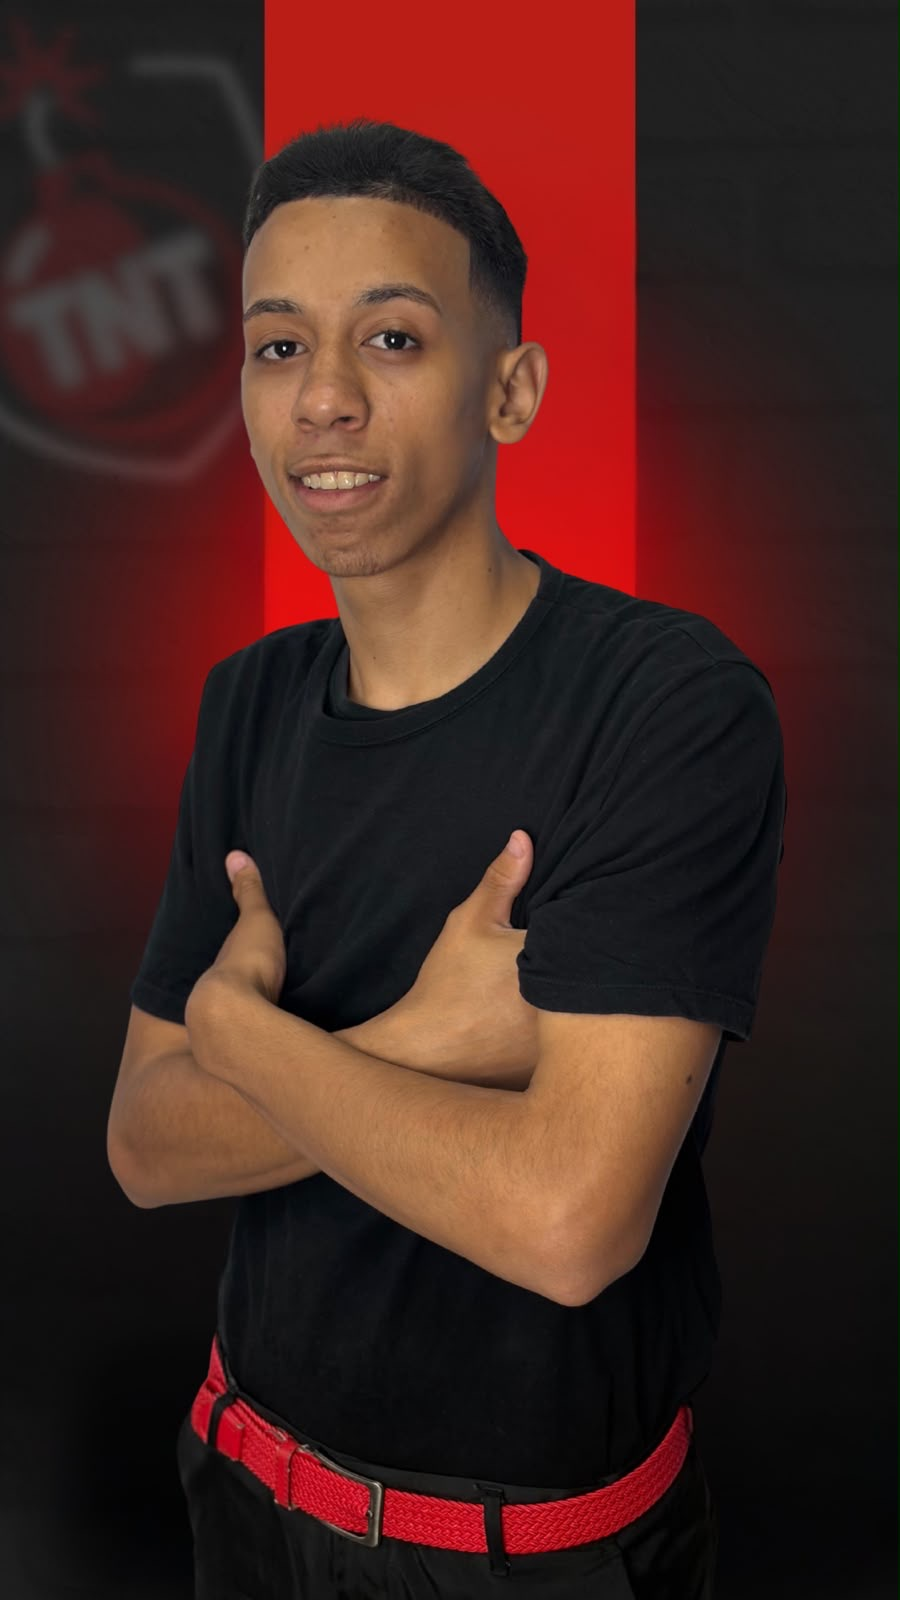
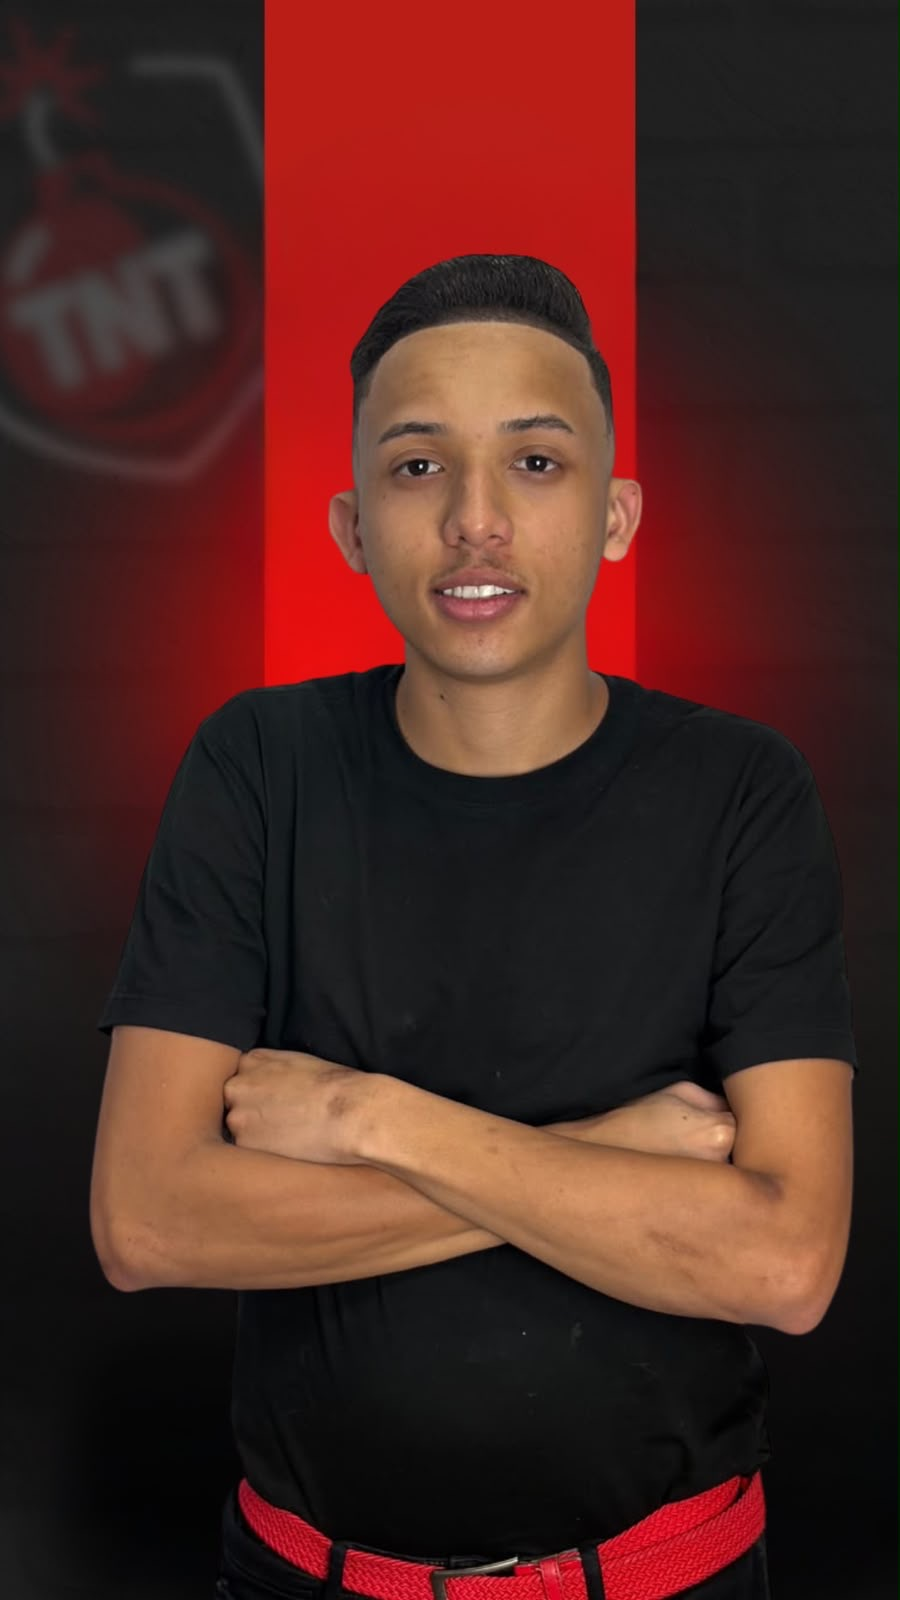
Fix swapped Pedro/Heryck photos and add haircut gallery
Corrects the photo-name pairing for Pedro and Heryck Saymohn, upgrades
the team card styling (Anton headings, accent bar, hover zoom), and
adds a draggable "Mural de cortes" gallery showcasing recent haircuts.

diff --git a/index.html b/index.html
@@ -115,22 +115,62 @@
   .member{
     background:var(--black-2);
     border:1px solid var(--line);
-    border-radius:16px;
+    border-radius:18px;
     overflow:hidden;
     text-align:center;
-    transition:border-color .15s, transform .15s;
+    transition:border-color .2s, transform .2s, box-shadow .2s;
   }
-  .member:hover{ border-color:var(--red); transform:translateY(-2px); }
+  .member::before{
+    content:''; display:block; height:3px;
+    background:linear-gradient(90deg, var(--red), var(--red-dark));
+  }
+  .member:hover{
+    border-color:var(--red); transform:translateY(-4px);
+    box-shadow:0 16px 32px -16px rgba(200,29,37,0.55);
+  }
   .member .photo-wrap{
     width:100%; aspect-ratio:3/4; overflow:hidden; background:#000;
   }
-  .member img{ width:100%; height:100%; object-fit:cover; display:block; }
-  .member .info{ padding:12px 10px 16px; }
+  .member .photo-wrap img{ width:100%; height:100%; object-fit:cover; display:block; transition:transform .5s ease; }
+  .member:hover .photo-wrap img{ transform:scale(1.07); }
+  .member .info{ padding:13px 10px 17px; }
   .member .info h3{
-    font-family:'Work Sans',sans-serif; font-weight:700; text-transform:none;
-    font-size:14.5px; letter-spacing:0;
+    font-family:'Anton',sans-serif; font-weight:400; text-transform:uppercase;
+    font-size:15.5px; letter-spacing:0.01em; line-height:1.05;
   }
-  .member .info p{ font-size:11.5px; color:var(--gray); margin-top:3px; font-family:'JetBrains Mono',monospace; text-transform:uppercase; letter-spacing:0.04em; }
+  .member .info p{ font-size:11px; color:var(--spark); margin-top:6px; font-family:'JetBrains Mono',monospace; text-transform:uppercase; letter-spacing:0.08em; }
+
+  /* ---------- GALLERY (MURAL DE CORTES) ---------- */
+  .gallery-scroll{
+    display:flex; gap:14px;
+    overflow-x:auto;
+    scroll-snap-type:x mandatory;
+    -webkit-overflow-scrolling:touch;
+    scrollbar-width:none;
+    cursor:grab;
+    margin:0 -24px 36px;
+    padding:4px 24px 16px;
+    mask-image:linear-gradient(to right, transparent 0, black 24px, black calc(100% - 24px), transparent 100%);
+    -webkit-mask-image:linear-gradient(to right, transparent 0, black 24px, black calc(100% - 24px), transparent 100%);
+  }
+  .gallery-scroll::-webkit-scrollbar{ display:none; }
+  .gallery-scroll.dragging{ cursor:grabbing; scroll-snap-type:none; }
+  .gallery-item{
+    flex:0 0 auto;
+    width:66%; max-width:250px;
+    aspect-ratio:3/4;
+    border-radius:16px;
+    overflow:hidden;
+    border:1px solid var(--line);
+    scroll-snap-align:start;
+    background:#000;
+  }
+  .gallery-item img{ width:100%; height:100%; object-fit:cover; display:block; pointer-events:none; user-select:none; }
+  .drag-hint{
+    text-align:center; margin:-24px 0 36px;
+    font-size:11px; color:var(--gray); font-family:'JetBrains Mono',monospace;
+    letter-spacing:0.08em; text-transform:uppercase;
+  }
 
   /* ---------- MAP / ADDRESS ---------- */
   .address-card{
@@ -235,6 +275,18 @@
     </div>
   </div>
 
+  <!-- ============ GALLERY ============ -->
+  <div class="section-head">
+    <div class="eyebrow">Nosso trabalho</div>
+    <h2>Mural de cortes</h2>
+  </div>
+  <div class="gallery-scroll" id="gallery">
+    <div class="gallery-item"><img src="assets/cortes/corte-1.jpeg" alt="Corte feito na Barbearia TNT" loading="lazy"></div>
+    <div class="gallery-item"><img src="assets/cortes/corte-2.jpeg" alt="Corte feito na Barbearia TNT" loading="lazy"></div>
+    <div class="gallery-item"><img src="assets/cortes/corte-3.jpeg" alt="Corte feito na Barbearia TNT" loading="lazy"></div>
+  </div>
+  <div class="drag-hint">arraste para o lado →</div>
+
   <!-- ============ ADDRESS ============ -->
   <div class="address-card">
     <span class="link-icon">
@@ -254,5 +306,28 @@
 
 </div>
 
+<script>
+(function(){
+  var el = document.getElementById('gallery');
+  if(!el) return;
+  var isDown = false, startX = 0, scrollStart = 0;
+  el.addEventListener('pointerdown', function(e){
+    if(e.pointerType !== 'mouse') return;
+    isDown = true;
+    el.classList.add('dragging');
+    startX = e.clientX;
+    scrollStart = el.scrollLeft;
+    el.setPointerCapture(e.pointerId);
+  });
+  el.addEventListener('pointermove', function(e){
+    if(!isDown) return;
+    el.scrollLeft = scrollStart - (e.clientX - startX);
+  });
+  function stopDrag(){ isDown = false; el.classList.remove('dragging'); }
+  el.addEventListener('pointerup', stopDrag);
+  el.addEventListener('pointercancel', stopDrag);
+  el.addEventListener('pointerleave', stopDrag);
+})();
+</script>
 </body>
 </html>
